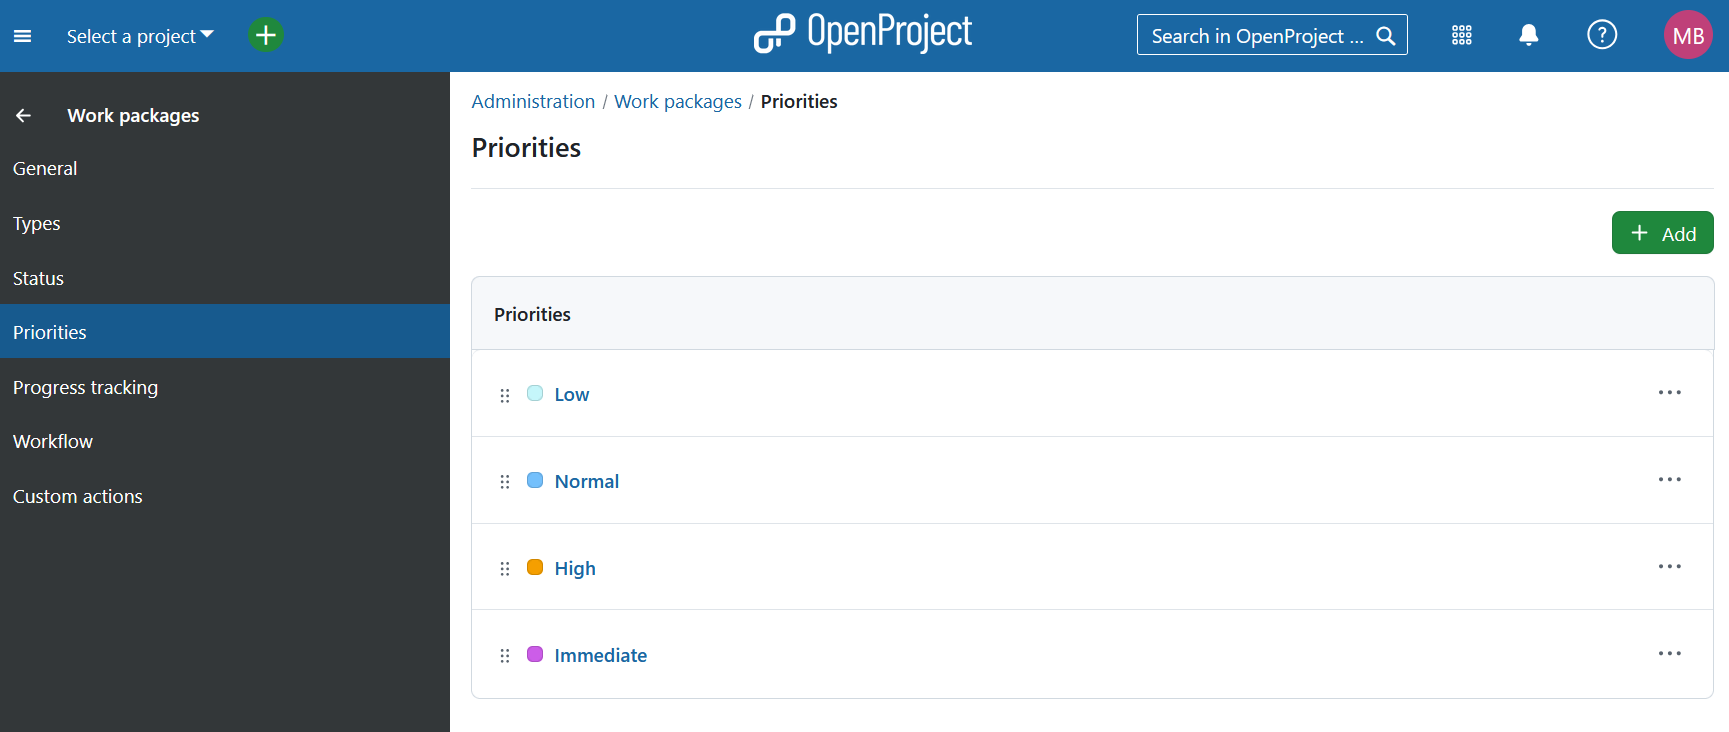
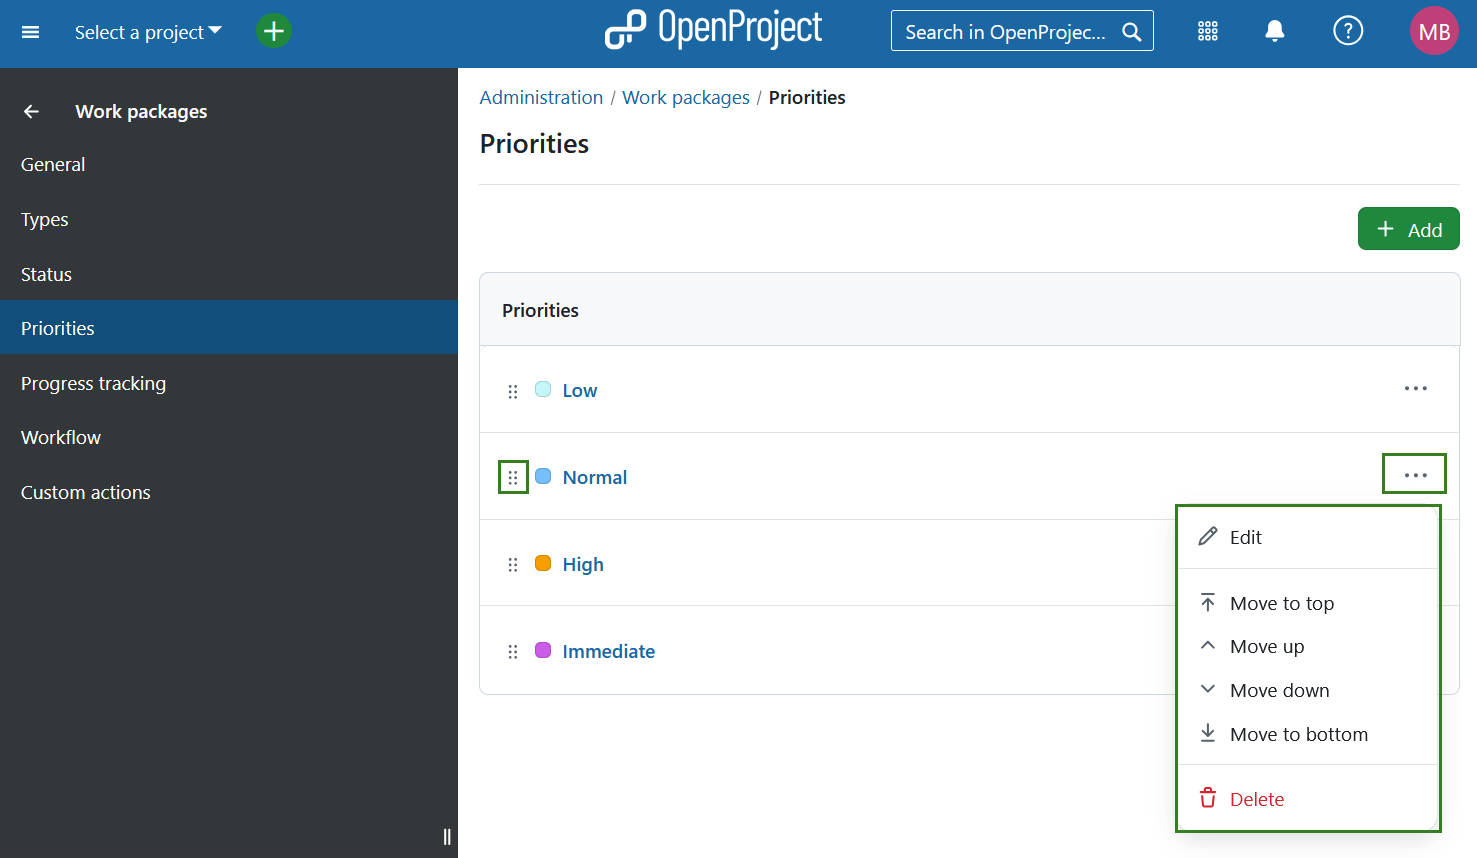
update

diff --git a/docs/system-admin-guide/time-and-costs/README.md b/docs/system-admin-guide/time-and-costs/README.md
@@ -56,7 +56,7 @@ In the overview list of all cost types you can define the following.
 > [!NOTE]
 > With cost types you can also book any kind of units to work packages, e.g. vacation days, leaves, travel days, etc.. Just choose 1 as a unit. This way, you could e.g. track vacation days against a vacation budget and evaluate the days in the [cost reporting](../../user-guide/time-and-costs/reporting/).
 
-## Create and manage time tracking actvities
+## Create and manage time tracking activities
 
 To get an overview of existing values for time tracking activities, navigate to *Administration -> Time and Costs -> Time tracking activities*. You can adjust the items within the list by using the options behind the **More (three dots)** menu on the right side. You can also re-arrange the order by using the drag-and-drop handle on the left. 
 
@@ -67,7 +67,7 @@ To get an overview of existing values for time tracking activities, navigate to 
 
 ### Create new time tracking activity
 
-To create a new enumeration value, select the **+ Add** button in the top right corner.
+To create a new value, select the **+ Add** button in the top right corner.
 
 You will then be able to name the value and activate it. Press the **Save** button to save your changes.
 
@@ -77,13 +77,10 @@ You will then be able to name the value and activate it. Press the **Save** butt
 
 To **edit** an existing configuration either click on the name of the activity directly or select the **Edit** option from the **More (three dots)** menu on the right end of the row.
 
-![Edit a time tracking activity in OpenProject adminstration](openproject_system_admin_guide_time_costs_time_tracking_activities_edit_icon.png)
+![Edit a time tracking activity in OpenProject administration](openproject_system_admin_guide_time_costs_time_tracking_activities_edit_icon.png)
 
 
-
-
-
-To remove an enumeration open the **More (three dots)** menu on the right end of the row and click on the **delete icon**.
+To remove an enumeration, open the **More (three dots)** menu on the right end of the row and click on the **delete icon**.
 
 > [!NOTE]
 > To activate the [Activities for time tracking](../../user-guide/projects/project-settings/activities-time-tracking) in a certain project, navigate to *Project settings -> Time tracking activities*.

diff --git a/docs/system-admin-guide/manage-work-packages/work-package-priorities/README.md b/docs/system-admin-guide/manage-work-packages/work-package-priorities/README.md
@@ -1,0 +1,29 @@
+---
+sidebar_navigation:
+  title: Settings
+  priority: 966
+description: Work package priorities in OpenProject.
+keywords: work package priorities, work package configuration
+---
+# Work package priorities
+
+To create or edit work package priorities in OpenProject, navigate to *Administration → Work packages → Priorities*. Here you will see all existing work package priorities. You can adjust the items within the list by using the options behind the **More (three dots)** menu on the right side. You can also rearrange the order by using the drag-and-drop handle on the left. 
+
+![Work package priorities overview in OpenProject administration](openproject_system_guide_work_package_priorities_overview.png)
+
+## Create new work package priority
+
+To create a new work package priority, select the **+ Add** button in the top right corner.
+
+You will then be able to name the priority, select the assigned color, and activate it. Press the **Save** button to save your changes.
+
+![Create new work package priority in OpenProject](openproject_system_guide_work_package_priorities_new.png)
+
+## Edit or remove work package priority
+
+To **edit** an existing priority, either click on the name of the priority directly or select the **Edit** option from the **More (three dots)** menu on the right end of the row.
+
+![Edit a work package priority in OpenProject administration](openproject_system_guide_work_package_priorities_edit.png)
+
+
+To remove a work package priority, open the **More (three dots)** menu on the right end of the row and click on the **delete icon**.

diff --git a/docs/system-admin-guide/files/categories/README.md b/docs/system-admin-guide/files/categories/README.md
@@ -1,0 +1,30 @@
+---
+sidebar_navigation:
+  title: Categories
+  priority: 700
+description: File storages in OpenProject.
+keywords: file storages, Nextcloud setup, Nextcloud integration, OneDrive setup, Sharepoint setup, OneDrive, Sharepoint
+---
+
+# Documentation categories
+
+To create or edit documentation categories in OpenProject, navigate to *Administration → Files → Categories*. Here, you will see all existing values. You can adjust the items within the list by using the options behind the **More (three dots)** menu on the right side. You can also rearrange the order by using the drag-and-drop handle on the left. 
+
+![Documentation categories overview in OpenProject administration](openproject_system_guide_files_categories_overview.png)
+
+## Create new documentation category
+
+To create a new documentation category, select the **+ Add** button in the top right corner.
+
+You can then enter a name activate it. Press the **Save** button to save your changes.
+
+![Create new documentation category in OpenProject](openproject_system_guide_files_categories_new.png)
+
+## Edit or remove documentation category
+
+To **edit** an existing category, either click on the name directly or select the **Edit** option from the **More (three dots)** menu on the right end of the row.
+
+![Edit a documentation category in OpenProject administration](openproject_system_guide_files_categories_edit.png)
+
+
+To remove a documentation category, open the **More (three dots)** menu on the right end of the row and click on the **delete** icon.

diff --git a/docs/system-admin-guide/manage-work-packages/README.md b/docs/system-admin-guide/manage-work-packages/README.md
@@ -16,6 +16,7 @@ Manage work packages in OpenProject.
 | [Settings](work-package-settings)                   | Configure general work package settings and defaults, such as display options and more. |
 | [Types](work-package-types)                         | Create and manage work package types.                        |
 | [Status](work-package-status)                       | Create and manage work package status.                       |
+| [Priorities](work-package-priorites)                | Create and manage work package priorities.                   |
 | [Progress tracking](work-package-progress-tracking) | Manage work package progress reporting settings.             |
 | [Workflows](work-package-workflows)                 | Create and manage workflows for work packages in OpenProject. |
 | [Custom actions](custom-actions)                    | Create custom actions for work packages (Enterprise add-on). |

diff --git a/docs/system-admin-guide/files/README.md b/docs/system-admin-guide/files/README.md
@@ -18,5 +18,7 @@ Under [external file storages](./external-file-storages) you can add Nextcloud o
 
 Under [attachments](./attachments) you can manage settings for attachments in work packages. You will also find the [virus scanning](./attachments/virus-scanning) settings here. 
 
+## Categories
 
+Under [categories](./categories) you can create and manage documentation categories in OpenProject.
 
